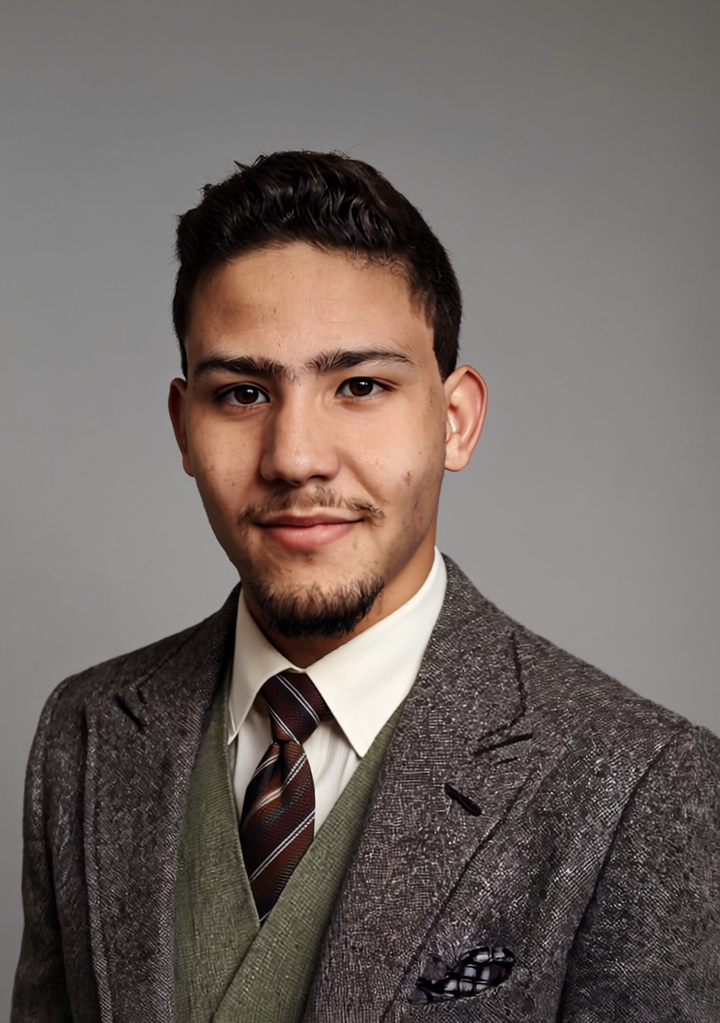
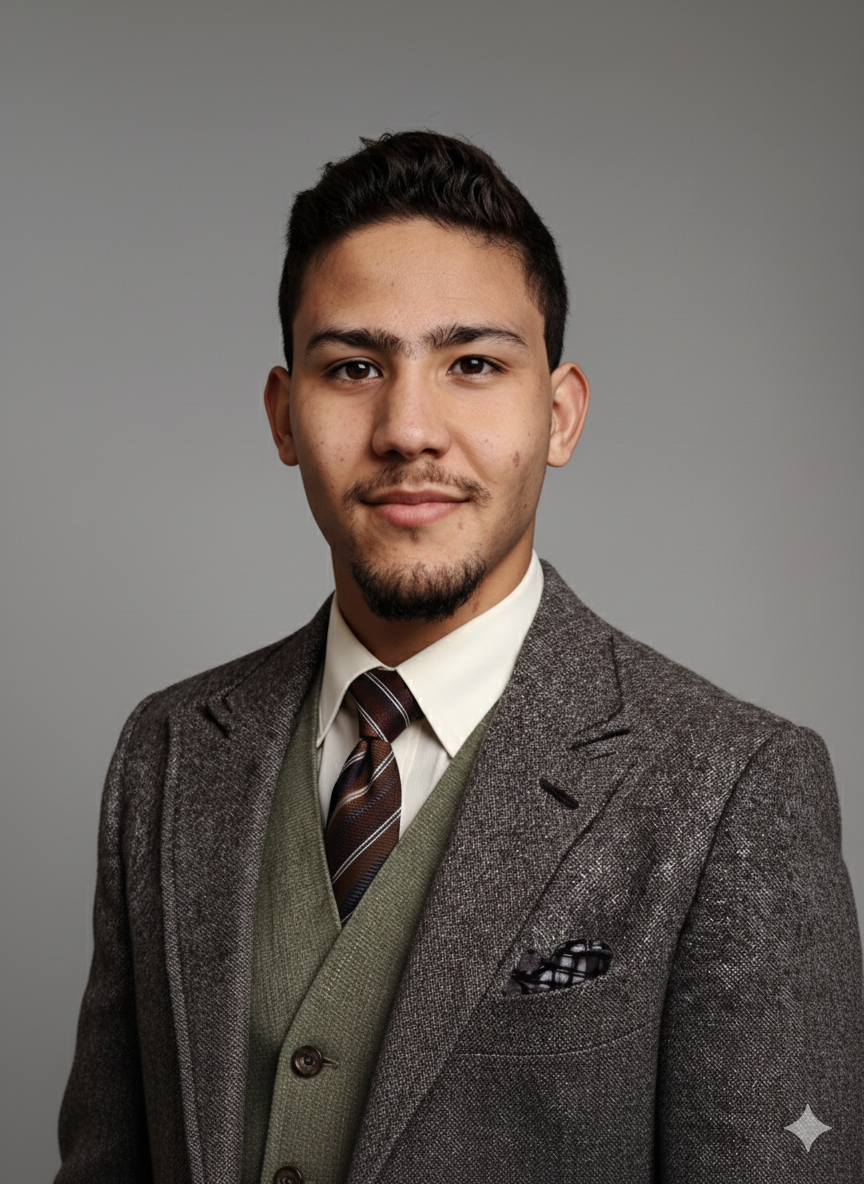
Update: some info

diff --git a/index.html b/index.html
@@ -10,13 +10,13 @@
     <link href="https://fonts.googleapis.com/css2?family=Orbitron:wght@400;700;900&family=Space+Grotesk:wght@300;400;500;600;700&family=Inter:wght@300;400;500;600;700&display=swap" rel="stylesheet">
     
     <title>Elyazid Salhi - Backend Engineer & AI Innovator</title>
-    <meta name="description" content="Backend Engineer, AI Innovator, and Founder of LorPulse. I build intelligent systems that solve real-world problems — fast, secure, and beautifully." />
+    <meta name="description" content="Backend Engineer, AI Innovator, and Founder of DocSift. I build intelligent systems that solve real-world problems — fast, secure, and beautifully." />
     <meta name="author" content="Elyazid Salhi" />
-    <meta name="keywords" content="Backend Engineer, AI Developer, LorPulse, Software Engineering, Artificial Intelligence, Machine Learning" />
+    <meta name="keywords" content="Backend Engineer, AI Developer, DocSift, Software Engineering, Artificial Intelligence, Machine Learning" />
 
     <!-- Open Graph Meta Tags -->
     <meta property="og:title" content="Elyazid Salhi - Backend Engineer & AI Innovator" />
-    <meta property="og:description" content="Backend Engineer, AI Innovator, and Founder of LorPulse. Building intelligent systems that solve real-world problems." />
+    <meta property="og:description" content="Backend Engineer, AI Innovator, and Founder of DocSift. Building intelligent systems that solve real-world problems." />
     <meta property="og:type" content="website" />
     <meta property="og:image" content="https://lovable.dev/opengraph-image-p98pqg.png" />
 
@@ -64,7 +64,7 @@
             <h1 class="hero-title">
                 <span class="animated-text name-text">Elyazid Salhi</span>
                 <span class="animated-text subtitle-text">Backend Engineer, AI Innovator</span>
-                <span class="animated-text company-text">Founder of LorPulse</span>
+                <span class="animated-text company-text">Founder of DocSift</span>
             </h1>
 
             <!-- Subtitle -->
@@ -103,7 +103,7 @@
                 <div class="about-content">
                     <p class="about-text">
                         I'm a passionate backend engineer and AI innovator with a vision to transform how businesses 
-                        operate through intelligent technology. As the founder of <strong>LorPulse</strong>, 
+                        operate through intelligent technology. As the founder of <strong>DocSift</strong>, 
                         I'm building AI-powered solutions that turn complex business challenges into seamless, automated experiences.
                     </p>
                     
@@ -123,7 +123,7 @@
 
                     <div class="stats-grid">
                         <div class="stat-item">
-                            <div class="stat-number">1+</div>
+                            <div class="stat-number">2+</div>
                             <div class="stat-label">Years Experience</div>
                         </div>
                         <div class="stat-item">
@@ -144,8 +144,8 @@
     <section id="company" class="section company-section">
         <div class="container">
             <div class="section-header">
-                <h2 class="section-title">LorPulse</h2>
-                <p class="section-subtitle">AI-Powered Professional Assistant Platform</p>
+                <h2 class="section-title">DocSift</h2>
+                <p class="section-subtitle">AI-Powered Contract Auditing & Risk Detection Platform</p>
                 <div class="section-divider"></div>
             </div>
 
@@ -155,37 +155,38 @@
                     <!-- Company logo -->
                     <div class="company-logo-header">
                         <div class="company-logo">
-                            <img src="assets/logo.png" alt="lorpulse Logo" />
+                            <img src="assets/logo.png" alt="DocSift Logo" />
                         </div>
                         <div class="company-info">
-                            <h3 class="company-name">LorPulse</h3>
-                            <p class="company-tagline">AI-Powered Professional Assistant</p>
+                            <h3 class="company-name">DocSift</h3>
+                            <p class="company-tagline">AI-Powered Contract Auditing & Risk Detection</p>
                         </div>
                     </div>
                     
                     <div class="company-card">
-                        <h3 class="company-card-title">Revolutionizing Personal & Professional Productivity</h3>
+                        <h3 class="company-card-title">Revolutionizing Contract Auditing & Vendor Compliance</h3>
                         
                         <p class="company-description">
-                            LorPulse is a smart SaaS platform providing AI-powered assistants tailored to every profession, helping users organize their work, track projects, and achieve their goals efficiently and intelligently.
+                            DocSift is an intelligent SaaS platform that automates document analysis. Using advanced Neural-Driven Processing, we help legal and business professionals identify risks, score compliance, and extract critical insights from complex contracts in seconds
                         </p>
 
                         <div class="features-list">
                             <div class="feature-item">
                                 <i class="fas fa-brain feature-icon"></i>
                                 <div class="feature-content">
-                                    <h4 class="feature-title">Intelligent Professional Assistance</h4>
+                                    <h4 class="feature-title">Neural Contract Analysis</h4>
                                     <p class="feature-description">
-                                        Advanced AI assistants customized for your profession, delivering organized and actionable guidance.                                    </p>
+                                        Advanced AI models tailored to detect hidden risks and legal loopholes with pinpoint accuracy
+                                    </p>
                                 </div>
                             </div>
                             
                             <div class="feature-item">
                                 <i class="fas fa-file-text feature-icon"></i>
                                 <div class="feature-content">
-                                    <h4 class="feature-title">Workspace & Productivity Tools</h4>
+                                    <h4 class="feature-title">Smart Document Vault</h4>
                                     <p class="feature-description">
-                                        Manage files, projects, and reports in one interface, with ready-to-use prompts for maximum efficiency.
+                                        Securely store, organize, and manage your legal documents in a centralized, encrypted repository
                                     </p>
                                 </div>
                             </div>
@@ -193,21 +194,22 @@
                             <div class="feature-item">
                                 <i class="fas fa-chart-bar feature-icon"></i>
                                 <div class="feature-content">
-                                    <h4 class="feature-title">Export & Share</h4>
+                                    <h4 class="feature-title">Automated Risk Reports</h4>
                                     <p class="feature-description">
-                                        Generate reports, summaries, and insights in PDF, Excel, and other formats instantly.
+                                        Generate comprehensive compliance scores and audit reports in PDF or Excel instantly
                                     </p>
                                 </div>
                             </div>
                         </div>
 
                         <div class="company-buttons">
-                            <button class="btn btn-outline" onclick="window.open('https://www.linkedin.com/company/LorPulse/', '_blank')">
+                            <button class="btn btn-outline" onclick="window.open('https://www.linkedin.com/company/DocSift/', '_blank')">
                                 <i class="fas fa-external-link"></i>
                                 LinkedIn Page
                             </button>
-                            <button class="btn btn-outline disabled">
-                                Website Coming Soon
+                            <button class="btn btn-outline" onclick="window.open('https://client-chi-fawn.vercel.app/', '_blank')">
+                                <i class="fas fa-external-link"></i>
+                                Try it
                             </button>
                         </div>
                     </div>
